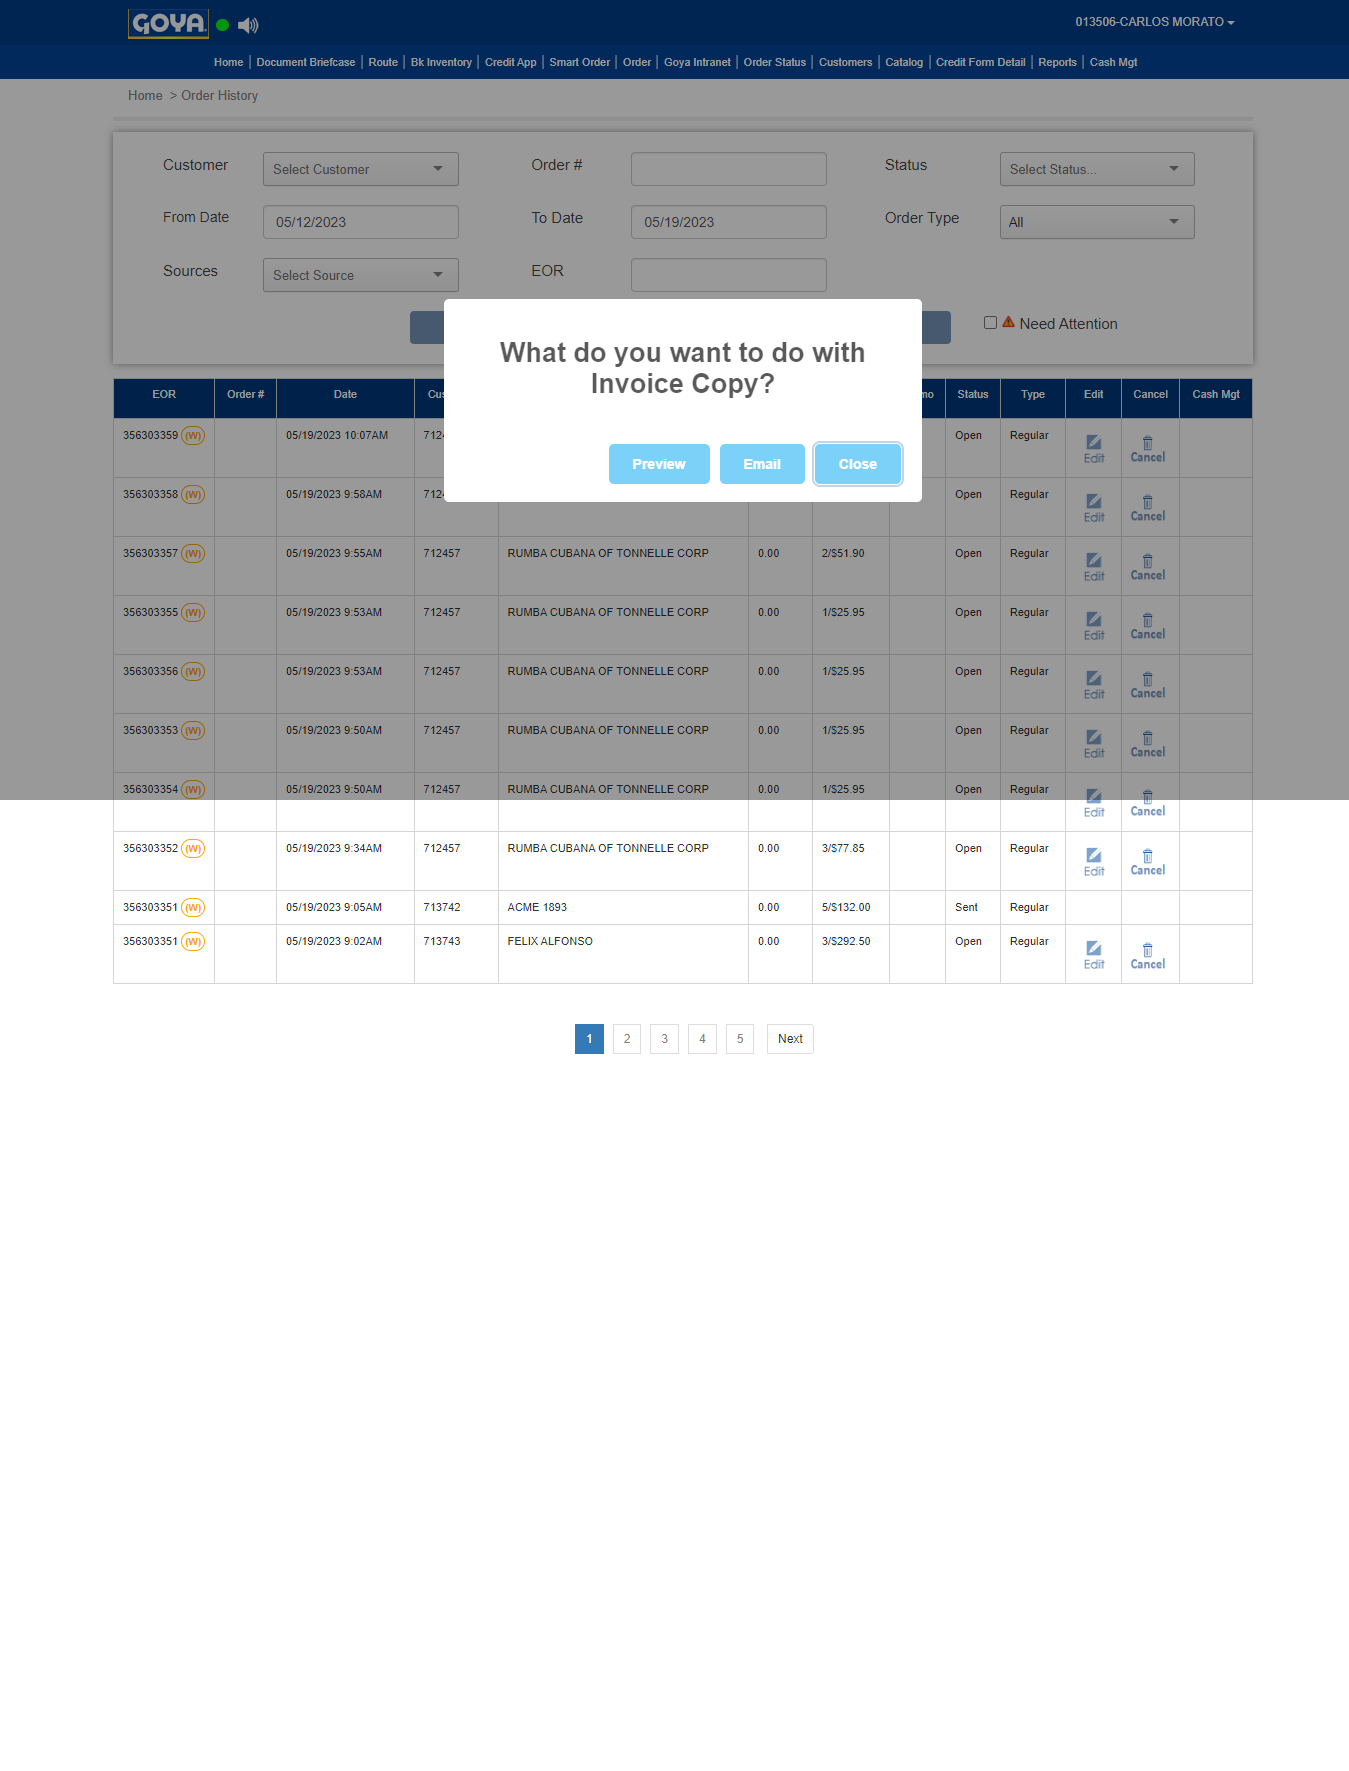
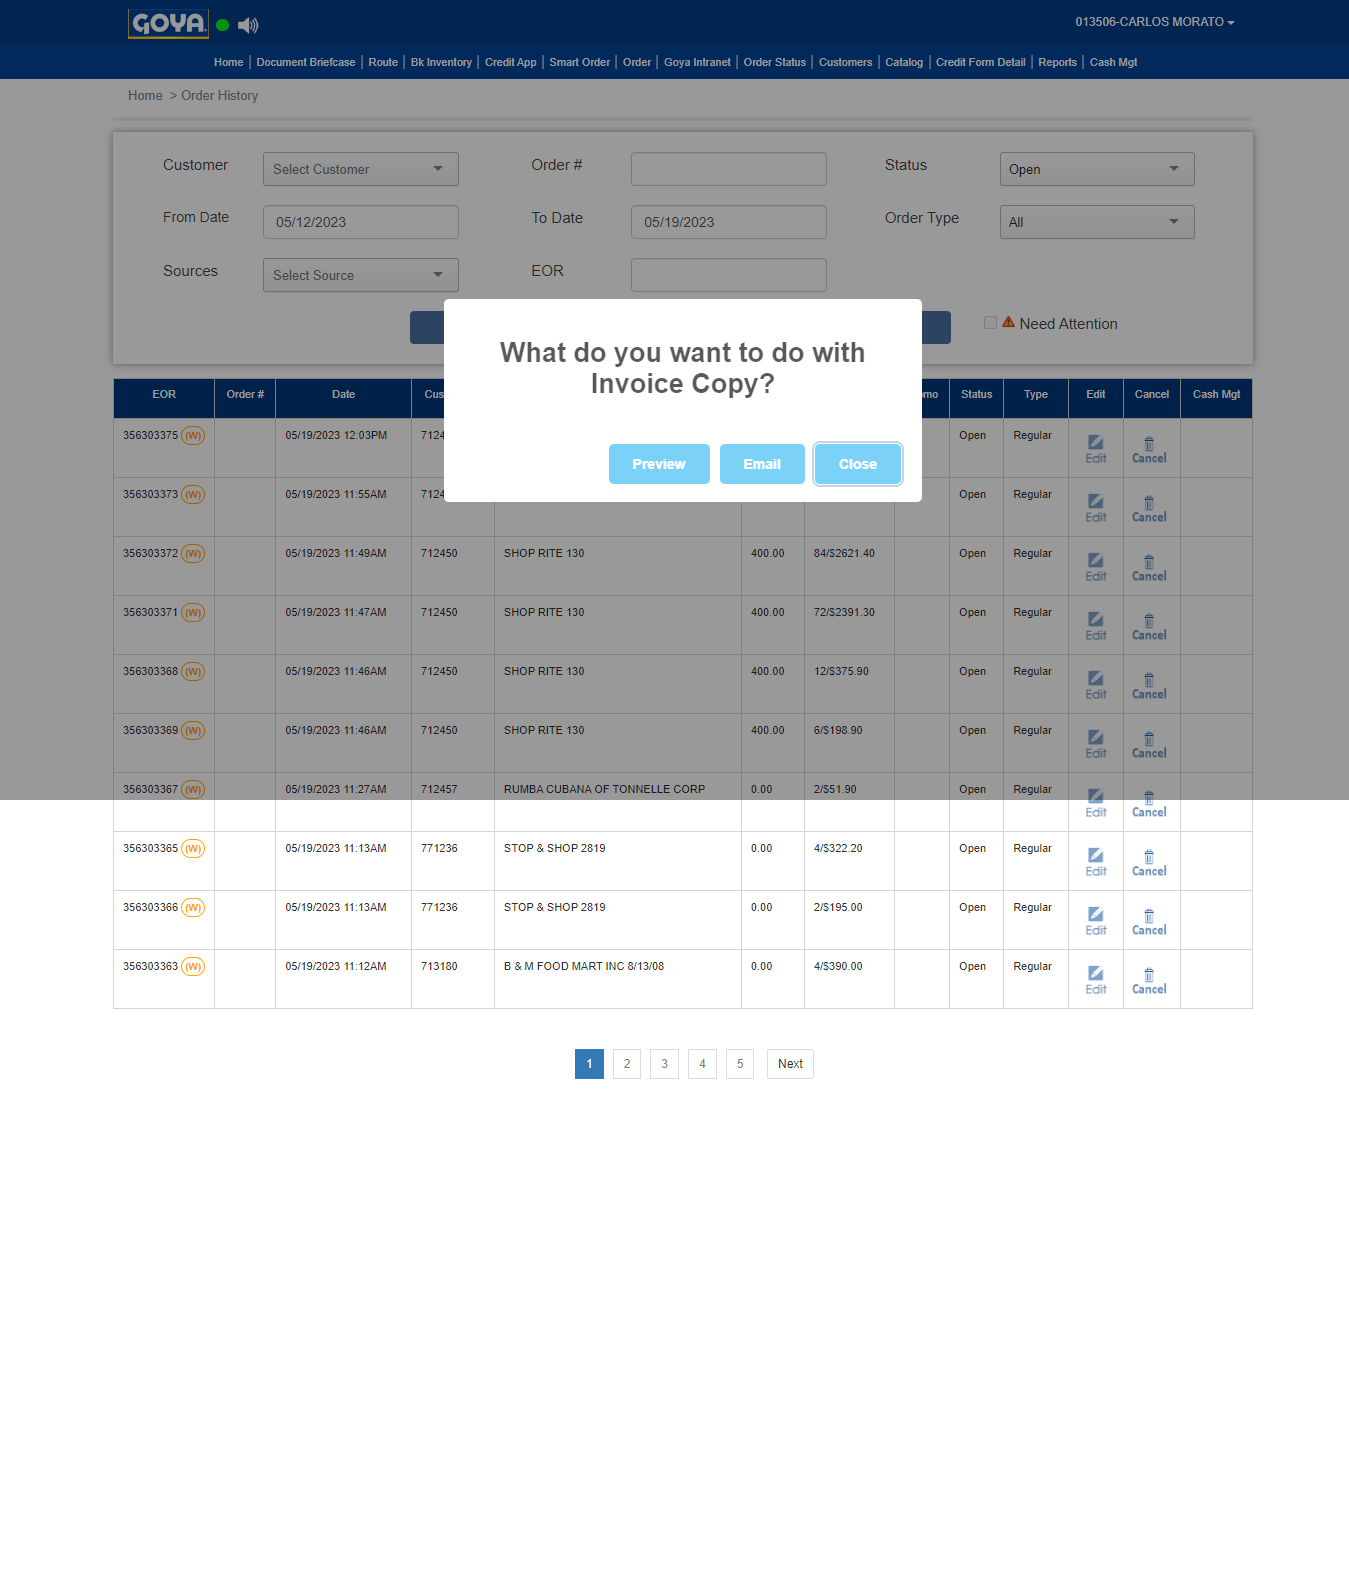
OrderStatusGoya

diff --git a/tests/Orderstatus.spec.js b/tests/Orderstatus.spec.js
@@ -25,36 +25,37 @@ test('Order Status', async ({ page }) => {
     //Addd assertions to verify the URL of the home page .
     await expect(page).toHaveURL('https://portal-test.goya.com/oms2/#/home');
 
-    await page.getByRole('button', { name: 'Order', exact: true }).click();
-    await page.getByRole('searchbox', { name: 'Customer' }).click();
-    await page.getByText('712457-RUMBA CUBANA OF TONNELLE CORP').click();
-    
-    await page.getByRole('textbox', { name: 'Item / UPC#' }).click();
-    await page.getByRole('textbox', { name: 'Item / UPC#' }).fill('2365');
-    await page.getByPlaceholder('Cases').press('Tab');
-    await page.getByRole('textbox', { name: 'Item / UPC#' }).fill('2465');
-    await page.getByPlaceholder('Cases').press('Tab');
-    await page.getByRole('link', { name: 'Order Status' }).click();
-
+    await page.getByRole('button', { name: 'Order Status' }).click();
     await page.waitForTimeout(11000)
-    await page.getByRole('cell', { name: '356303352 (W)' }).click();
+    await page.getByRole('searchbox', { name: 'Status' }).click();
+    await page.getByRole('button', { name: 'Status focus' }).press('ScrollLock');
+    await page.getByRole('option', { name: 'Open', exact: true }).getByText('Open').click();
+    await page.waitForTimeout(11000)
+    await page.getByRole('cell', { name: '356303375 (W)' }).click();
     await page.screenshot({ path: "Pdf.png", fullPage: true })
     const downloadPromise = page.waitForEvent('download');
     await page.locator('#pdf').getByText('PDF').click();
     const download = await downloadPromise;
     page.once('dialog', dialog => {
-    console.log(`Dialog message: ${dialog.message()}`);
-    dialog.dismiss().catch(() => {});
-    });
+      console.log(`Dialog message: ${dialog.message()}`);
+      dialog.dismiss().catch(() => {});
+    })
     await page.locator('#pdf').getByText('Email').click();
     await page.locator('#pdf').getByText('Close').click();
-    await page.locator('.table > tbody > tr > td:nth-child(3)').first().click();
-    await page.screenshot({ path: "Popup.png", fullPage: true})
-    await page.getByRole('button', { name: 'Close' }).click();
-    
     await page.locator('.delete-icon').first().click();
-    await page.screenshot({ path: "Cancel.png", fullPage: true})
+    await page.screenshot({ path: "Cancel.png", fullPage: true })
     await page.getByRole('button', { name: 'No' }).click();
+    await page.locator('.table > tbody > tr > td:nth-child(3)').first().click();
+    await page.waitForTimeout(1000)
+    await page.screenshot({ path: "Popup.png", fullPage: true })
+    await page.getByRole('button', { name: 'Close' }).click();
+    await page.waitForTimeout(5000)
+    
+    await page.getByRole('searchbox', { name: 'Customer' }).click();
+    await page.getByText('712457-RUMBA CUBANA OF TONNELLE CORP').click();
+    // await page.getByRole('checkbox', { name: 'Need Attention' }).check();
+    // await page.getByRole('checkbox', { name: 'Need Attention' }).uncheck();
+
     
     await page.getByRole('listitem').filter({ hasText: 'Home' }).getByRole('link', { name: 'Home' }).click();
     await page.getByRole('button', { name: '013506-CARLOS MORATO' }).click();
